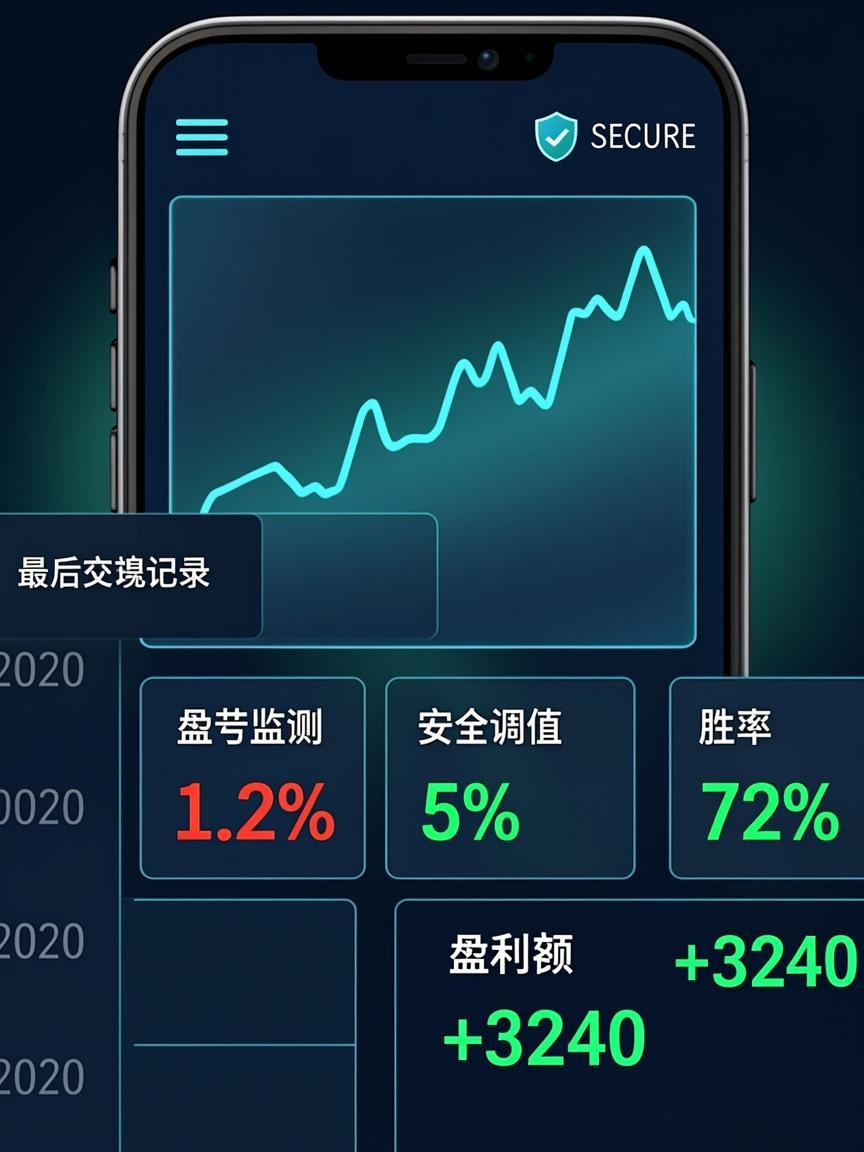
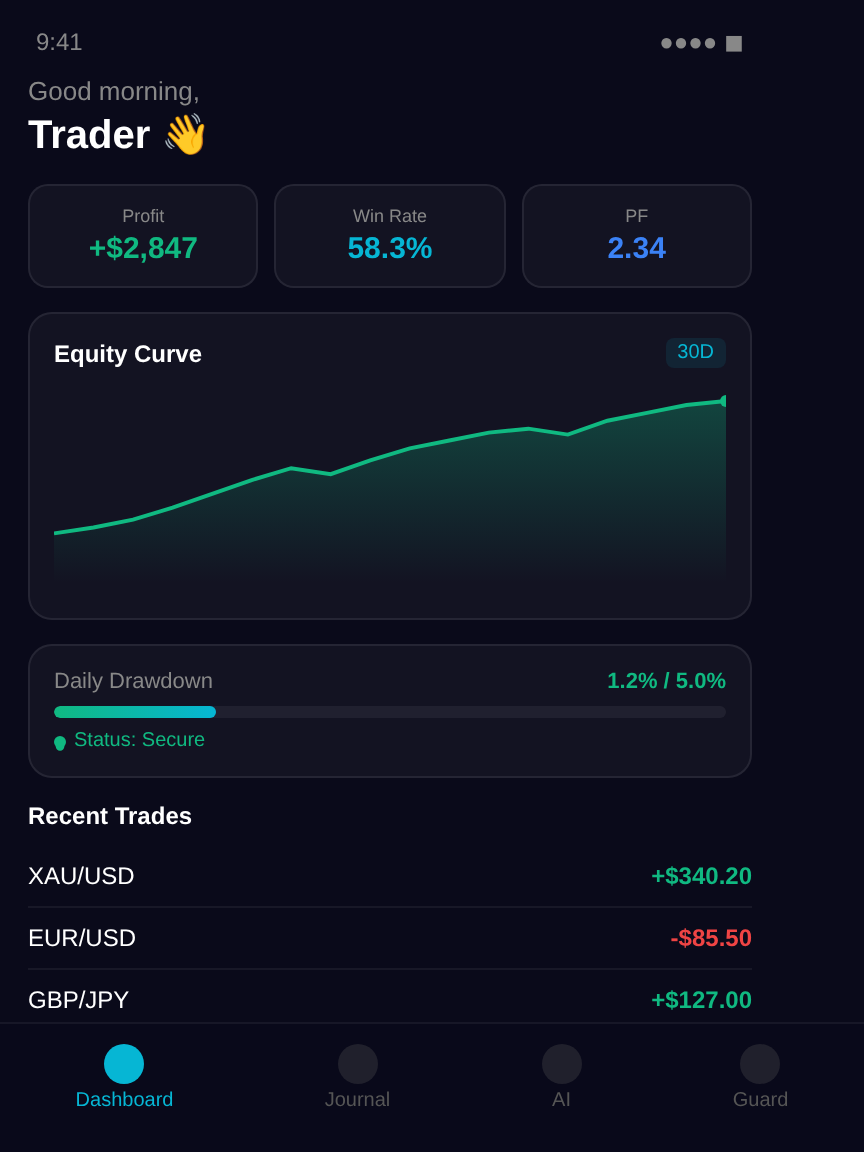
fix: replace blurry AI-generated landing page images with pixel-perfect Playwright-rendered app mockups
- All 5 landing page images regenerated as crisp CSS-rendered UI mockups
- Dashboard, Calendar, Trades, Mobile Dashboard, Auto-Journal screenshots
- Rendered at 864x1152 @2x device scale factor for Retina displays
- Added quality={100} to all next/image components on landing page
- Images now show realistic app UI with proper typography and layout

diff --git a/src/components/landing/CaraKerjaSection.tsx b/src/components/landing/CaraKerjaSection.tsx
@@ -145,7 +145,7 @@ export default function CaraKerjaSection({ language = 'id' }: CaraKerjaSectionPr
                 {step.visual === 'upload' && step.img && (
                   <div className="glass-lux p-8 min-h-[300px] flex items-center justify-center relative">
                     <div className="phone-mockup w-48 hover:scale-105 transition-transform duration-300">
-                      <Image src={step.img} alt="Auto Jurnal Screenshot MT5" width={864} height={1152} loading="lazy" className="w-full h-auto" />
+                      <Image src={step.img} alt="Auto Jurnal Screenshot MT5" width={864} height={1152} quality={100} loading="lazy" className="w-full h-auto" />
                     </div>
                     <div className="absolute bottom-4 right-4 bg-white/5 p-3 rounded-xl border border-white/10 backdrop-blur-md animate-float-lux">
                       <div className="flex items-center gap-2">
@@ -159,7 +159,7 @@ export default function CaraKerjaSection({ language = 'id' }: CaraKerjaSectionPr
                 {step.visual === 'analytics' && step.img && (
                   <div className="glass-lux p-8 min-h-[300px] flex items-center justify-center relative">
                     <div className="phone-mockup w-48 hover:scale-105 transition-transform duration-300">
-                      <Image src={step.img} alt="Kalender Trading" width={864} height={1152} loading="lazy" />
+                      <Image src={step.img} alt="Kalender Trading" width={864} height={1152} quality={100} loading="lazy" />
                     </div>
                     {step.floatingCards?.map((card, ci) => (
                       <div key={ci} className={`absolute ${card.position} bg-white/5 p-3 rounded-xl border border-white/10 backdrop-blur-md animate-float-lux`} style={{ animationDelay: `${ci * 0.5}s` }}>
@@ -173,7 +173,7 @@ export default function CaraKerjaSection({ language = 'id' }: CaraKerjaSectionPr
                 {step.visual === 'journal' && step.img && (
                   <div className="glass-lux p-8 min-h-[300px] flex items-center justify-center relative">
                     <div className="phone-mockup w-48 hover:scale-105 transition-transform duration-300">
-                      <Image src={step.img} alt="Histori Trade" width={864} height={1152} loading="lazy" />
+                      <Image src={step.img} alt="Histori Trade" width={864} height={1152} quality={100} loading="lazy" />
                     </div>
                     {step.floatingCards?.map((card, ci) => (
                       <div key={ci} className={`absolute ${card.position} bg-white/5 p-3 rounded-xl border border-white/10 backdrop-blur-md animate-float-lux`} style={{ animationDelay: '0.5s' }}>

diff --git a/src/components/landing/HeroSection.tsx b/src/components/landing/HeroSection.tsx
@@ -199,13 +199,13 @@ export default function HeroSection({ language = 'id' }: HeroSectionProps) {
           transition={{ duration: 0.7, delay: 0.3 }}
         >
           <div className="phone-mockup w-64 absolute top-10 left-1/2 -translate-x-1/2 z-30 animate-float-lux glow-bg-luxury">
-            <Image src="/screenshot-dashboard.webp" alt="Dashboard LuxTradee" width={864} height={1152} loading="lazy" className="shadow-2xl" />
+            <Image src="/screenshot-dashboard.webp" alt="Dashboard LuxTradee" width={864} height={1152} quality={100} loading="lazy" className="shadow-2xl" />
           </div>
           <div className="phone-mockup w-48 absolute top-32 left-0 z-20 -rotate-12 animate-float-lux" style={{ animationDelay: '1s' }}>
-            <Image src="/screenshot-calendar.webp" alt="Kalender Trading" width={864} height={1152} loading="lazy" className="shadow-2xl opacity-80" />
+            <Image src="/screenshot-calendar.webp" alt="Kalender Trading" width={864} height={1152} quality={100} loading="lazy" className="shadow-2xl opacity-80" />
           </div>
           <div className="phone-mockup w-48 absolute top-32 right-0 z-20 rotate-12 animate-float-lux" style={{ animationDelay: '2s' }}>
-            <Image src="/screenshot-trades.webp" alt="Histori Trade" width={864} height={1152} loading="lazy" className="shadow-2xl opacity-80" />
+            <Image src="/screenshot-trades.webp" alt="Histori Trade" width={864} height={1152} quality={100} loading="lazy" className="shadow-2xl opacity-80" />
           </div>
         </motion.div>
 
@@ -217,7 +217,7 @@ export default function HeroSection({ language = 'id' }: HeroSectionProps) {
           transition={{ duration: 0.6, delay: 0.4 }}
         >
           <div className="phone-mockup glow-bg-luxury animate-float-lux">
-            <Image src="/screenshot-dashboard-mobile.webp" alt="Dashboard LuxTradee" width={864} height={1152} priority />
+            <Image src="/screenshot-dashboard-mobile.webp" alt="Dashboard LuxTradee" width={864} height={1152} quality={100} priority />
           </div>
         </motion.div>
       </div>
